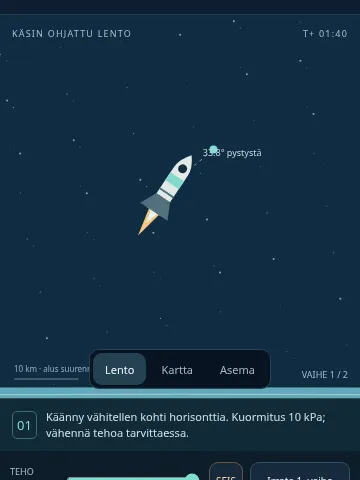
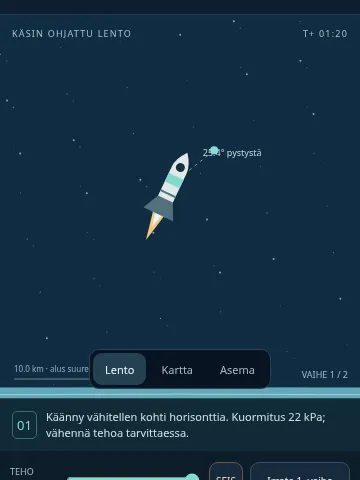
Allow Raketti time acceleration during powered flight and steering

diff --git a/games/raketti/v2/ui.js b/games/raketti/v2/ui.js
@@ -49,7 +49,7 @@ function frame(now) {
   if (paused || !ship || ship.phase !== 'flight') return;
   const dt = lastFrame ? Math.max(0, Math.min(0.2, (now - lastFrame) / 1000)) : 0;
   lastFrame = now;
-  if (warp !== 1 && !canWarp()) warp = 1;
+  limitWarp();
   advanceFlight(dt); saveElapsed += dt;
   if (saveElapsed >= 2) { saveFlight(); saveElapsed = 0; }
   if (now - lastUi >= 80) { updateUi(); lastUi = now; }
@@ -105,6 +105,7 @@ function guidance() {
   return ['02', `Asema ${Math.abs(lead).toFixed(1)}° ${lead >= 0 ? 'edellä' : 'jäljessä'}, ${distance(d.range)}. ${lead >= 0 ? 'Alempi rata saavuttaa asemaa.' : 'Ylempi rata antaa aseman saavuttaa sinut.'} Kohtaaminen: Ohje → 4.`];
 }
 function updateUi() {
+  limitWarp();
   const s = ship || freshFlight(), o = orbit(s), d = approach(s);
   text('alt', distance(o.altitude));
   text('speed', `${Math.round(o.speed).toLocaleString('fi-FI')} m/s`);
@@ -125,12 +126,13 @@ function updateUi() {
   $('throttle').value = s.throttle * 100;
   text('rcs', `Suuttimien polttoaine ${Math.round(s.rcs / RCS_FULL * 100)} %`);
   text('warp', `Aika ×${warp}`);
+  text('warp-note', d.range <= DOCK_REALTIME_RANGE ? 'Porttiin enintään 20 m: ×1' : maxWarp() === 100 ? 'Vapaa lento: ×2/×5/×10/×100' : 'Myös ohjaten ja moottorilla: ×2/×5');
   const live = ship && ship.phase === 'flight' && !paused;
   $('stage').disabled = !live || s.stage !== 0 || o.altitude < 1000;
   text('stage', s.stage === 0 ? 'Irrota 1. vaihe' : '2. vaihe käytössä');
   $('throttle').disabled = !live || s.fuel[s.stage] === 0;
   $('cut').disabled = !live;
-  $('warp').disabled = !live || (warp === 1 && !canWarp());
+  $('warp').disabled = !live || maxWarp() === 1;
   for (const b of document.querySelectorAll('[data-hold]')) {
     const rotational = b.dataset.hold.startsWith('turn:');
     b.disabled = !live || (s.rcs === 0 && (!rotational || s.throttle === 0));
@@ -142,9 +144,10 @@ const HELP = [
   ['Sinä lennät koko matkan', `<p>Tavoite: laukaisu Maasta, vakaa kiertorata ja telakointi 400 km:n korkeudella lentävään asemaan. Yläilmakehään nouseminen ei vielä ole kiertorata.</p><ul><li>TEHO säätää päämoottoria. SEIS katkaisee sen.</li><li>↶ ↷ antavat kääntävää voimaa. Vapautus ei pysäytä kiertoa: paina vastakkaiseen suuntaan.</li><li>↑ ↓ ← → käyttävät pieniä siirtosuuttimia aluksen omissa suunnissa. Ne kuluttavat erillistä polttoainetta.</li><li>Ⅱ pysäyttää ajan. Puhelimen lukitus ja ohjeen avaaminen pysäyttävät myös lennon.</li></ul>`],
   ['01 / Laukaisu', `<p>Pidä aluksi teho täysillä. Nouse lähes pystysuoraan 1–3 km, kallista sitten hitaasti oikealle. Tavoittele noin 20° pystystä 10 km:ssä, 40° 40 km:ssä, 65° 100 km:ssä ja 80° 200 km:ssä. Tämä on lähtöohje, ei automaattinen lentorata.</p><p>Liian nopea kallistus vie raketin tiheään ilmaan. Liian pitkä pystynousu kuluttaa polttoaineen ilman tarvittavaa vaakavauhtia. Kun 1. vaihe tyhjenee, irrota se ja nosta 2. vaiheen teho. Se ei käynnisty itsestään.</p>`],
   ['02 / Rakenna kiertorata', `<p>400 km:n ympyräradalla tarvitaan noin 7 670 m/s vaakavauhtia. Mittarit näyttävät inertiaalisen nopeuden sekä radan alimman ja ylimmän korkeuden.</p><p>Nosta radan ylin noin 400 km:iin ja katkaise moottori. Lähellä radan ylintä kiihdytä vaakasuoraan liikesuuntaan, kunnes myös radan alin on yli 150 km. Negatiivinen alin tarkoittaa, että rata leikkaa maan. Kartta näyttää lentoradan ilman tulevia moottoripolttoja.</p>`],
-  ['02 / Kohtaa liikkuva asema', `<p>Pelkkä sama korkeus ei riitä: aseman on oltava samassa paikassa samaan aikaan. Alempi rata kiertää nopeammin ja saavuttaa edellä olevan aseman. Jos asema on jäljessä, ylemmällä radalla se saavuttaa sinut. Älä yritä lentää suoraan asemaa kohti: suora oikaisu voi viedä ilmakehään.</p><p>Esimerkki 250 km:n ympyräradalta: kun asema on noin 3° edellä, kiihdytä liikesuuntaan noin 43 m/s. Siirtoradan ylin nousee 400 km:iin. Noin 45 minuutin kuluttua, ylimmässä pisteessä, kiihdytä vielä noin 43 m/s tasataksesi radat. Tarkista todellinen kohtaaminen kartalta. Tämä arvio ei korjaa lentoa puolestasi.</p><p>Aika ×10 ja ×100 toimivat vain ilmakehän yläpuolella, moottori ja suuttimet pois, hitaalla kierrolla ja yli 5 km asemasta. Aika palautuu ×1:een lähestyessäsi.</p>`],
+  ['02 / Kohtaa liikkuva asema', `<p>Pelkkä sama korkeus ei riitä: aseman on oltava samassa paikassa samaan aikaan. Alempi rata kiertää nopeammin ja saavuttaa edellä olevan aseman. Jos asema on jäljessä, ylemmällä radalla se saavuttaa sinut. Älä yritä lentää suoraan asemaa kohti: suora oikaisu voi viedä ilmakehään.</p><p>Esimerkki 250 km:n ympyräradalta: kun asema on noin 3° edellä, kiihdytä liikesuuntaan noin 43 m/s. Siirtoradan ylin nousee 400 km:iin. Noin 45 minuutin kuluttua, ylimmässä pisteessä, kiihdytä vielä noin 43 m/s tasataksesi radat. Tarkista todellinen kohtaaminen kartalta. Tämä arvio ei korjaa lentoa puolestasi.</p>`],
   ['03 / Telakoi hitaasti', `<p>Asema-näkymässä oikea on aseman liikesuunta ja ylös poispäin Maasta. Lähesty vasemmalta portin vihreää linjaa pitkin, nokka oikealle. Aluksen suunnat voivat erota näytön suunnista.</p><ul><li>Keltainen viiva näyttää liikkeen asemaan nähden. Jarruta vastakkaisella suuttimella.</li><li>Renkaan etäisyys alle 1,2 m, nopeusero enintään 0,25 m/s.</li><li>Nokan suuntaero enintään 5° ja kiertoero enintään 0,6°/s.</li><li>Portti lukittuu kosketuksesta. Aseman runko ja aurinkopaneelit ovat törmäysesteitä.</li></ul>`],
-  ['Lentomalli ja tallennus', `<p>Fysiikka käyttää metrejä, sekunteja ja kiloja: pallomainen pyörivä Maa, etäisyyden neliössä heikkenevä painovoima, ilmanvastus, muuttuva massa sekä päämoottorin ja siirtosuuttimien liikemäärä. Raketti on kuvitteellinen kaksivaiheinen kantoraketti.</p><p>Rajaukset: yksi ratataso, yksinkertaistettu ilmakehä ja aerodynamiikka; ei Kuuta, nostetta, polttoaineen loiskumista eikä lämpökilpeä. Alukset ovat kuvassa suurennettuja. Tallennus säilyttää lennon; jatkaminen alkaa tauolta. Harjoitukset eivät kirjaa koko lennon saavutuksia.</p>`]
+  ['Lentomalli ja tallennus', `<p>Fysiikka käyttää metrejä, sekunteja ja kiloja: pallomainen pyörivä Maa, etäisyyden neliössä heikkenevä painovoima, ilmanvastus, muuttuva massa sekä päämoottorin ja siirtosuuttimien liikemäärä. Raketti on kuvitteellinen kaksivaiheinen kantoraketti.</p><p>Rajaukset: yksi ratataso, yksinkertaistettu ilmakehä ja aerodynamiikka; ei Kuuta, nostetta, polttoaineen loiskumista eikä lämpökilpeä. Alukset ovat kuvassa suurennettuja. Tallennus säilyttää lennon; jatkaminen alkaa tauolta. Harjoitukset eivät kirjaa koko lennon saavutuksia.</p>`],
+  ['Ajan nopeutus', `<p>Aika-painike kiertää nopeudet ×1, ×2 ja ×5 myös nousussa, moottorin käydessä ja suuttimia käyttäessä. Sama fysiikka ja polttoaineenkulutus jatkuvat; reagoimiseen jää vähemmän aikaa. ×10 ja ×100 toimivat vain ilmakehän yläpuolella, moottori ja suuttimet pois, hitaalla kierrolla ja yli 5 km asemasta. Ohjaus tai näiden ehtojen päättyminen rajoittaa nopeuden ×5:een. Viimeiset 20 m porttiin lennetään aina ×1-ajalla; nopeutus ei käynnisty uudelleen itsestään.</p>`]
 ];
 function openHelp() {
   helpReturn = panelName || 'pause-panel';
@@ -172,12 +175,13 @@ $('continue').onclick = play;
 $('to-menu').onclick = mainMenu; $('result-menu').onclick = mainMenu;
 $('retry').onclick = () => startFlight(lastKind);
 $('throttle').oninput = () => {
-  if (!paused && ship && ship.phase === 'flight') { ship.throttle = +$('throttle').value / 100; warp = 1; updateUi(); }
+  if (!paused && ship && ship.phase === 'flight') { ship.throttle = +$('throttle').value / 100; limitWarp(); updateUi(); }
 };
 $('cut').onclick = () => { if (ship) { ship.throttle = 0; updateUi(); updateSound(); } };
 $('stage').onclick = () => { stageRocket(); updateUi(); draw(); };
 $('warp').onclick = () => {
-  if (warp !== 1 || canWarp()) warp = warp === 1 ? 10 : warp === 10 ? 100 : 1;
+  const rates = [1, 2, 5, 10, 100].filter(rate => canWarp(rate));
+  warp = rates[(rates.indexOf(warp) + 1) % rates.length];
   updateUi();
 };
 for (const b of document.querySelectorAll('[data-view]')) b.onclick = () => { view = b.dataset.view; updateUi(); draw(); };
@@ -189,11 +193,11 @@ function applyPointers() {
 for (const b of document.querySelectorAll('[data-hold]')) {
   b.onpointerdown = e => {
     if (paused || !ship || ship.phase !== 'flight' || b.disabled) return;
-    e.preventDefault(); soundReady(); warp = 1;
+    e.preventDefault(); soundReady();
     const [key, value] = b.dataset.hold.split(':');
     pointers.set(e.pointerId, { key, value: +value, button: b });
     try { b.setPointerCapture(e.pointerId); } catch (_) { /* Window handlers release the finger if capture is unavailable. */ }
-    applyPointers();
+    applyPointers(); limitWarp(); updateUi();
   };
   const release = e => { pointers.delete(e.pointerId); applyPointers(); };
   b.onpointerup = b.onpointercancel = b.onlostpointercapture = release;

diff --git a/games/raketti/v2/physics.js b/games/raketti/v2/physics.js
@@ -85,11 +85,18 @@ function atmosphere(x, y, vx, vy) {
   const ax = vx - SPIN * y, ay = vy + SPIN * x;
   return { rho, ax, ay, speed: Math.hypot(ax, ay), q: 0.5 * rho * (ax * ax + ay * ay) };
 }
-function canWarp() {
-  if (!ship || ship.phase !== 'flight') return false;
-  return Math.hypot(ship.x, ship.y) > EARTH + 150000 && ship.throttle === 0 &&
-    !held.turn && !held.forward && !held.side && Math.abs(ship.omega) < 0.01 && approach().range > 5000;
+// Only wall-clock speed changes; forces, fuel use and integration steps do not.
+const DOCK_REALTIME_RANGE = 20;
+function maxWarp() {
+  if (!ship || ship.phase !== 'flight') return 1;
+  const range = approach().range;
+  if (range <= DOCK_REALTIME_RANGE) return 1;
+  const coasting = Math.hypot(ship.x, ship.y) > EARTH + 150000 && ship.throttle === 0 &&
+    !held.turn && !held.forward && !held.side && Math.abs(ship.omega) < 0.01 && range > 5000;
+  return coasting ? 100 : 5;
 }
+function canWarp(rate = 10) { return maxWarp() >= rate; }
+function limitWarp() { warp = Math.min(warp, maxWarp()); }
 function clearHeld() { held.turn = held.forward = held.side = 0; }
 function endFlight(reason, success = false) {
   ship.phase = success ? 'docked' : 'crashed'; ship.reason = reason;
@@ -128,7 +135,7 @@ function loadFlight() {
 function stageRocket() {
   if (!ship || paused || ship.phase !== 'flight' || ship.stage !== 0) return false;
   if (orbit().altitude < 1000) return false;
-  ship.fuel[0] = 0; ship.stage = 1; ship.throttle = 0; warp = 1;
+  ship.fuel[0] = 0; ship.stage = 1; ship.throttle = 0; limitWarp();
   saveFlight(); return true;
 }
 function acceleration(x, y, vx, vy, fx, fy, m, s) {
@@ -235,13 +242,16 @@ function tick(dt) {
   if (stationContact(oldPoints, vehiclePoints(s, p))) {
     endFlight('Törmäys asemaan. Kohdista nokka porttiin ja hidasta alle 0,25 m/s.');
   }
-  if (before.altitude > 0 && near.range < 5000) warp = 1;
+  limitWarp();
+}
+function flightStepLimit() {
+  return approach().range < 1000 || ship.throttle > 0 || held.turn || held.forward || held.side ? 0.02 : 0.25;
 }
 function step(seconds) {
   if (!ship || paused || ship.phase !== 'flight' || !Number.isFinite(seconds) || seconds <= 0) return;
   let left = seconds;
   while (left > 1e-9 && ship.phase === 'flight') {
-    const limit = approach().range < 1000 || ship.throttle > 0 || held.turn || held.forward || held.side ? 0.02 : 0.25;
+    const limit = flightStepLimit();
     const dt = Math.min(left, limit); tick(dt); left -= dt;
   }
 }
@@ -252,9 +262,9 @@ function advanceFlight(realSeconds) {
   if (!Number.isFinite(realSeconds) || realSeconds <= 0 || paused) return;
   let left = realSeconds;
   while (left > 1e-9 && ship && ship.phase === 'flight') {
-    if (warp !== 1 && !canWarp()) warp = 1;
+    limitWarp();
     const rate = warp;
-    const simulated = Math.min(left * rate, 0.25);
+    const simulated = Math.min(left * rate, flightStepLimit());
     step(simulated);
     left -= simulated / rate;
   }

diff --git a/games/raketti/v2/index.html b/games/raketti/v2/index.html
@@ -29,7 +29,7 @@
       <div class="turn-pad"><span>KÄÄNNÄ · VASTAPAINE PYSÄYTTÄÄ</span><div><button data-hold="turn:-1" aria-label="Käännä vasemmalle">↶</button><button data-hold="turn:1" aria-label="Käännä oikealle">↷</button></div></div>
       <div class="translation"><span>SIIRTOSUUTTIMET · ALUKSEN SUUNNAT</span><div><button data-hold="side:-1" aria-label="Siirrä aluksen vasemmalle">←</button><button data-hold="forward:1" aria-label="Siirrä eteen">↑</button><button data-hold="forward:-1" aria-label="Siirrä taakse">↓</button><button data-hold="side:1" aria-label="Siirrä aluksen oikealle">→</button></div></div>
     </div>
-    <footer><span id="rcs">Suuttimien polttoaine 100 %</span><button id="warp">Aika ×1</button><button id="help">Ohje</button></footer>
+    <footer><span id="footer-info"><span id="rcs">Suuttimien polttoaine 100 %</span><span id="warp-note">Myös ohjaten ja moottorilla: ×2/×5</span></span><button id="warp">Aika ×1</button><button id="help">Ohje</button></footer>
   </section>
 </main>
 <div id="overlay" class="overlay">

diff --git a/games/raketti/v2/style.css b/games/raketti/v2/style.css
@@ -266,6 +266,10 @@ footer span {
   font-size:8px;
   color:#99b0be;
 }
+#footer-info {
+  display:grid;
+  gap:2px;
+}
 footer button {
   min-height:28px;
   font-size:10px;

diff --git a/tests/test_raketti_v2.py b/tests/test_raketti_v2.py
@@ -5,7 +5,7 @@ import pytest
 
 from conftest import ROOT, turn
 
-URL = 'games/raketti/v1/'
+URL = 'games/raketti/v2/'
 
 
 def open_game(site, context):
@@ -245,20 +245,110 @@ def test_no_fuel_means_no_free_thrust_and_staging_is_manual(site, context):
     assert page.errors == []
 
 
-def test_warp_restrictions_and_near_station_cancellation(site, context):
+def test_warp_choices_follow_controls_without_losing_manoeuvre_speed(site, context):
     page = open_game(site, context)
     start(page, 'practice-orbit')
-    assert page.evaluate('canWarp()')
+    for rate in [2, 5, 10, 100, 1]:
+        page.locator('#warp').click()
+        assert page.locator('#warp').inner_text() == f'Aika ×{rate}'
+    for _ in range(4):
+        page.locator('#warp').click()
+    turn = page.locator('[data-hold="turn:1"]')
+    forward = page.locator('[data-hold="forward:1"]')
+    turn.dispatch_event('pointerdown', {'pointerId': 21})
+    forward.dispatch_event('pointerdown', {'pointerId': 22})
+    assert page.evaluate('warp === 5 && held.turn === 1 && held.forward === 1 && !canWarp(10)')
+    # A second press and cancellation must retain both time and the other thumb.
+    turn.dispatch_event('pointercancel', {'pointerId': 21})
+    assert page.evaluate('warp === 5 && held.turn === 0 && held.forward === 1')
+    forward.dispatch_event('pointerup', {'pointerId': 22})
+    page.locator('#throttle').evaluate("el => { el.value = '30'; el.dispatchEvent(new Event('input', {bubbles:true})); }")
+    assert page.evaluate('warp === 5 && ship.throttle === .3 && maxWarp() === 5')
+    for rate in [1, 2, 5]:
+        page.locator('#warp').click()
+        assert page.evaluate('warp') == rate
+    # Main-engine cutoff and staging must not silently speed the simulation up.
+    page.locator('#cut').click()
+    assert page.evaluate('warp') == 5
+    assert page.errors == []
+
+
+@pytest.mark.parametrize('rate', [2, 5])
+@pytest.mark.parametrize('kind', ['launch', 'orbit'])
+def test_accelerated_power_and_steering_match_normal_physics(site, context, rate, kind):
+    page = open_game(site, context)
+    start(page, 'launch' if kind == 'launch' else 'practice-orbit')
+    result = page.evaluate("""({rate,kind}) => {
+      ship.throttle=kind==='launch'?1:.6; held.turn=1; held.forward=1; held.side=-1;
+      const initial=JSON.stringify(ship), startT=ship.t;
+      warp=rate; advanceFlight(.4); const fast=structuredClone(ship);
+      ship=JSON.parse(initial);warp=1;step(.4*rate);const normal=structuredClone(ship);
+      return {fast,normal,elapsed:fast.t-startT};
+    }""", {'rate': rate, 'kind': kind})
+    for key in ('x', 'y', 'vx', 'vy', 't', 'omega', 'rcs'):
+        assert result['fast'][key] == pytest.approx(result['normal'][key], abs=1e-5)
+    assert result['fast']['fuel'] == pytest.approx(result['normal']['fuel'], abs=1e-5)
+    assert result['elapsed'] == pytest.approx(.4 * rate)
+    assert result['fast']['phase'] == result['normal']['phase'] == 'flight'
+    assert result['fast']['fuel'][0 if kind == 'launch' else 1] < (295000 if kind == 'launch' else 18000)
+    assert page.errors == []
+
+
+@pytest.mark.parametrize('order', ['speed-first', 'thrust-first'])
+def test_launch_throttle_and_staging_keep_selected_speed(site, context, order):
+    page = open_game(site, context)
+    start(page)
+    if order == 'thrust-first':
+        page.locator('#throttle').evaluate("el => { el.value = '70'; el.dispatchEvent(new Event('input', {bubbles:true})); }")
     page.locator('#warp').click()
-    assert page.evaluate('warp') == 10
-    page.locator('[data-hold="forward:1"]').dispatch_event('pointerdown', {'pointerId': 21})
-    assert page.evaluate('warp===1 && !canWarp()')
-    page.locator('[data-hold="forward:1"]').dispatch_event('pointerup', {'pointerId': 21})
-    assert page.evaluate('canWarp()')
+    page.locator('#warp').click()
+    if order == 'speed-first':
+        page.locator('#throttle').evaluate("el => { el.value = '70'; el.dispatchEvent(new Event('input', {bubbles:true})); }")
+    assert page.evaluate('warp === 5 && ship.throttle === .7')
+    page.evaluate('ship.y=EARTH+2000;updateUi()')
+    page.locator('#stage').click()
+    assert page.evaluate('warp === 5 && ship.stage === 1 && ship.throttle === 0')
+    page.locator('#throttle').evaluate("el => { el.value = '50'; el.dispatchEvent(new Event('input', {bubbles:true})); }")
+    assert page.evaluate('warp === 5 && ship.throttle === .5')
+    page.locator('#pause').click()
+    page.reload()
+    page.locator('#resume').click()
+    assert page.evaluate('paused && warp === 1 && ship.stage === 1 && ship.throttle === .5')
+    assert page.errors == []
+
+
+@pytest.mark.parametrize('input_kind', ['throttle', 'turn', 'forward', 'side'])
+def test_high_coasting_speed_is_capped_when_a_control_is_used(site, context, input_kind):
+    page = open_game(site, context)
+    start(page, 'practice-orbit')
+    page.evaluate('warp=100;updateUi()')
+    if input_kind == 'throttle':
+        page.locator('#throttle').evaluate("el => { el.value = '10'; el.dispatchEvent(new Event('input', {bubbles:true})); }")
+    else:
+        page.locator(f'[data-hold="{input_kind}:1"]').dispatch_event('pointerdown', {'pointerId': 31})
+    assert page.evaluate('warp === 5 && maxWarp() === 5')
+    assert page.locator('#warp').inner_text() == 'Aika ×5'
+    assert page.errors == []
+
+
+def test_docking_limit_is_visible_and_cancels_within_the_frame(site, context):
+    page = open_game(site, context)
+    start(page, 'practice-dock')
+    page.locator('#warp').click()
+    page.locator('#warp').click()
+    assert page.evaluate('warp') == 5
     result = page.evaluate("""() => {
-      ship=freshFlight('dock');warp=100;step(.1);return {warp,can:canWarp()};
+      const p=station();ship.x=p.px-30;ship.y=p.py;ship.vx=p.pvx+5;
+      advanceFlight(.2);updateUi();return {t:ship.t,warp,range:approach().range,phase:ship.phase};
     }""")
-    assert result == {'warp': 1, 'can': False}
+    assert result['warp'] == 1 and .4 < result['t'] < .65, result
+    assert 18 < result['range'] <= 20 and result['phase'] == 'flight', result
+    assert page.locator('#warp').is_disabled()
+    assert page.locator('#warp-note').inner_text() == 'Porttiin enintään 20 m: ×1'
+    # Departing the safety zone never turns acceleration back on without a tap.
+    page.evaluate('ship.x-=50;advanceFlight(.1);updateUi()')
+    assert page.evaluate('warp') == 1
+    assert page.locator('#warp').is_enabled()
     assert page.errors == []
 
 
@@ -270,11 +360,11 @@ def test_phone_screens_help_and_controls_fit(site, browser, width, height):
         box = page.locator(selector).bounding_box()
         assert box and box['y'] >= 0 and box['y'] + box['height'] <= height, (selector, box)
     page.locator('#menu-help').tap()
-    for i in range(6):
+    for i in range(7):
         box = page.locator('#help-panel').bounding_box()
         assert box and box['y'] >= 0 and box['y'] + box['height'] <= height, (i, box)
         assert page.locator('#help-close').is_visible()
-        if i < 5:
+        if i < 6:
             page.locator('#help-next').tap()
     page.locator('#help-close').tap()
     start(page, 'practice-dock')
@@ -319,8 +409,8 @@ def test_warp_cancellation_does_not_consume_rest_of_accelerated_frame(site, cont
       ship.x=p.px-6000;ship.vx=p.pvx+1000;warp=100;
       advanceFlight(.2);return {t:ship.t,warp,phase:ship.phase,range:approach().range};
     }""")
-    assert result['warp'] == 1 and result['t'] < 2, result
-    assert result['range'] > 4000 and result['phase'] == 'flight'
+    assert result['warp'] == 5 and result['t'] < 3, result
+    assert result['range'] > 3000 and result['phase'] == 'flight'
     assert page.errors == []
 
 

diff --git a/docs/raketti-flight-model.md b/docs/raketti-flight-model.md
@@ -1,6 +1,6 @@
 # Raketti flight model
 
-Raketti v1 follows the approved manual, two-dimensional launch → orbit → docking mission. The player chose maximum realism, a 2D view, and no autopilot. Earth, a coplanar station at 400 km, two stages, coasting time acceleration and resumable flight were assumptions in the approved scope. The practice starts are an implementation assumption: they make the three stages learnable without repeatedly spending eight minutes on launch, and never earn full-flight achievements.
+Raketti v2 follows the approved manual, two-dimensional launch → orbit → docking mission. The player chose maximum realism, a 2D view, and no autopilot. Earth, a coplanar station at 400 km, two stages, coasting time acceleration and resumable flight were assumptions in the approved scope. The practice starts are an implementation assumption: they make the three stages learnable without repeatedly spending eight minutes on launch, and never earn full-flight achievements.
 
 The mission starts on a rotating Earth. The station starts at −0.20336 radians from the launch meridian, a launch window that brings the handbook ascent close to the station near its next apoapsis; a different manual ascent still needs the player to correct phasing. Nothing steers, stages, fires an engine or matches station velocity for the player. Instruments calculate the current orbit and explain the next task; the test-only scripted pilot is never shipped with the game.
 
@@ -18,10 +18,16 @@ The fictional launch vehicle starts at 500 tonnes. Stage 1 carries 295 tonnes pr
 
 ## Numerical and physical limits
 
-Velocity Verlet uses at most 0.25 s coasting steps, reduced to 0.02 s under thrust, during turning or within 1 km of the station. Time acceleration still runs every substep. It is available only above 150 km, beyond 5 km from the station, with engines and thrusters off and angular speed below 0.01 rad/s. Near a station it returns to real time.
+Velocity Verlet uses at most 0.25 s coasting steps, reduced to 0.02 s under thrust, during turning or within 1 km of the station. Time acceleration still runs every substep. The player can choose ×1, ×2 and ×5 during launch, thrust and steering. ×10 and ×100 remain available only above 150 km, beyond 5 km from the station, with engines and thrusters off and angular speed below 0.01 rad/s. Outside those coasting conditions a higher selected rate drops to ×5, not back up automatically. Within 20 m of the port it returns to real time; this cutoff is an implementation assumption for final contact, stated on screen. Pausing and resuming use ×1. Existing v1 saves and achievements use the same keys and shape unchanged.
 
 This is a planar, spherical-Earth two-body simulation, not a validated aerospace training simulator. It omits the Moon, non-spherical gravity, lift, propellant slosh and real engine operating limits. The atmosphere is a scale-height exponential with an altitude cutoff. Passive aerodynamic stability, dynamic-pressure failure and a heat proxy are deliberately simplified. Graphics enlarge the craft; the instruments and collision model use metres. The craft has no re-entry heat shield.
 
 ## Flight verification
 
-`tests/test_raketti_v1.py` contains a test-only pilot which operates the same DOM controls as a player. Its reference launch starts nearly vertical, aims about 20° from vertical at 10 km, 40° at 40 km, 65° at 100 km and 80° at 200 km, stages manually, and performs orbital insertion. This is a feasibility check rather than an autopilot available to the player. The full non-practice mission test continues that launch through a coast, main-engine rendezvous and RCS docking in both orientations, using only the manual DOM controls and physics steps. Separate checks exercise repeat practice docking, high-speed and tail-first contacts, an orbit period, fuel consumption, immediate warp cancellation, saves, offline play and touch layouts.
+`tests/test_raketti_v2.py` contains a test-only pilot which operates the same DOM controls as a player. Its reference launch starts nearly vertical, aims about 20° from vertical at 10 km, 40° at 40 km, 65° at 100 km and 80° at 200 km, stages manually, and performs orbital insertion. This is a feasibility check rather than an autopilot available to the player. The full non-practice mission test continues that launch through a coast, main-engine rendezvous and RCS docking in both orientations, using only the manual DOM controls and physics steps. Separate checks exercise repeat practice docking, high-speed and tail-first contacts, an orbit period, fuel consumption, immediate warp cancellation, saves, offline play and touch layouts.
+
+## Faster flight (v2)
+
+Chosen by the owner: acceleration also while not coasting; selectable ×1/×2/×5 under thrust and steering; ×10/×100 for coasting; manual controls, unchanged physics and existing saves; real time near docking contact, with the limit visible.
+
+Assumed (change if the build shows better; say so in the pull request): the final-contact cutoff is 20 m nose-to-port distance; disallowed ×10/×100 is capped at ×5; manual staging preserves ×2/×5. The time button cycles through the currently permitted rates.

diff --git a/docs/diagrams/raketti.md b/docs/diagrams/raketti.md
@@ -27,14 +27,18 @@ flowchart TD
     N --> O[Tallenna lento puhelimeen, jos tallennus sallitaan]
     O --> S
     J --> O
-    E --> P{Moottori ja suuttimet pois, yli 150 km ja yli 5 km asemasta, hidas kierto?}
-    P -- Kyllä --> Q[Valinnainen ajan nopeutus, samat fysiikan välivaiheet]
-    P -- Ei --> R[Aika normaaliksi]
-    Q --> F
-    R --> F
+    E --> P{Porttiin enintään 20 m?}
+    P -- Kyllä --> R[Aika normaaliksi, ei itsestään nopeutusta]
+    P -- Ei --> U{Moottori ja suuttimet pois, yli 150 km ja yli 5 km asemasta, hidas kierto?}
+    U -- Kyllä --> Q[Valitse ×1, ×2, ×5, ×10 tai ×100]
+    U -- Ei --> V[Valitse ×1, ×2 tai ×5 myös ohjatessa]
+    Q --> W[Samat fysiikan välivaiheet, rajoita valittua nopeutta heti]
+    V --> W
+    R --> W
+    W --> F
     class A,B,C,D,S blue
     class E,N violet
-    class F,J,P,Q,R teal
+    class F,J,P,Q,R,U,V,W teal
     class G,M,X rose
     class H,I,K,L green
     class O amber
@@ -51,7 +55,7 @@ flowchart TD
 
 ## Boxes
 
-- **Valitse lento tai harjoitus**: `games/raketti/v1/ui.js` tarjoaa täyden laukaisun sekä erilliset kiertorata- ja telakointiharjoitukset. `physics.js:freshFlight()` antaa harjoitukselle valmiin lähtötilan, ei ohjausta lennon aikana.
+- **Valitse lento tai harjoitus**: `games/raketti/v2/ui.js` tarjoaa täyden laukaisun sekä erilliset kiertorata- ja telakointiharjoitukset. `physics.js:freshFlight()` antaa harjoitukselle valmiin lähtötilan, ei ohjausta lennon aikana.
 - **Keskeneräinen lento?**: `ui.js:activeSaved()` ja `requestFlight()` suojaavat olemassa olevan lennon. Uusi lento vaatii vahvistuksen ennen tallennuksen korvaamista.
 - **Vahvista uuden lennon aloitus**: `ui.js` näyttää `replace-panel`-ruudun. Peruuttaminen säilyttää aiemman lennon.
 - **Laukaisu tai harjoituksen lähtötila**: `ui.js:startFlight()` käynnistää laukaisun täydellä teholla tai harjoituksen päämoottori sammutettuna.
@@ -68,6 +72,9 @@ flowchart TD
 - **Lento keskeytyy ja syy näytetään**: `physics.js:endFlight()` katkaisee moottorin, vapauttaa ohjauksen ja tallentaa. `ui.js:showResult()` kertoo syyn ja tarjoaa uuden yrityksen.
 - **Tauko, ohje tai puhelin piiloon: vapauta suuttimet**: `ui.js:showPanel()` ja `suspendFlight()` pysäyttävät ajan, vapauttavat kaikki painetut suuttimet ja hiljentävät moottorin. Myös `pointercancel` ja kadonnut osoittimen kaappaus vapauttavat painalluksen.
 - **Tallenna lento puhelimeen, jos tallennus sallitaan**: `physics.js:saveFlight()` säilyttää ajan, paikan, nopeuden, asennon, kierron, polttoaineet ja vaiheen avaimella `ai-pelit:raketti:lento`. `ui.js:frame()` tallentaa kahden sekunnin välein. Tallennuksen estyminen ei pysäytä peliä. Saavutukset käyttävät erillistä `ai-pelit:raketti:saavutukset`-avainta.
-- **Moottori ja suuttimet pois, yli 150 km ja yli 5 km asemasta, hidas kierto?**: `physics.js:canWarp()` vaatii myös käynnissä olevan lennon ja alle 0,01 rad/s kierron. `ui.js` palauttaa ajan normaaliksi ohjausta käytettäessä.
-- **Valinnainen ajan nopeutus, samat fysiikan välivaiheet**: `ui.js:frame()` käyttää `physics.js:advanceFlight()`-funktiota: pelaajan valitsemaa ×10 tai ×100 aikaa käytetään vain kun `canWarp()` sallii sen, ja peruutus vaikuttaa saman ruudun jäljellä olevaan aikaan heti. Fysiikan askelia ei hypätä yli.
-- **Aika normaaliksi**: `ui.js:frame()` ja `physics.js:tick()` palauttavat ×1-ajan, kun ehdot eivät enää täyty tai asema on lähellä.
+- **Porttiin enintään 20 m?**: `physics.js:maxWarp()` laskee nokan etäisyyden porttiin `approach()`-funktiolla. Enintään 20 metrin etäisyydellä suurin nopeus on ×1. Raja on toteutusoletus turvalliseen loppulähestymiseen.
+- **Moottori ja suuttimet pois, yli 150 km ja yli 5 km asemasta, hidas kierto?**: `physics.js:maxWarp()` sallii ×100 asti vain käynnissä olevassa vapaassa lennossa, kun kaikki ehdot ja alle 0,01 rad/s kierto täyttyvät. Muulloin yli 20 m portista suurin nopeus on ×5 myös nousussa ja ohjatessa.
+- **Valitse ×1, ×2, ×5, ×10 tai ×100**: `ui.js` kierrättää ajan painikkeella sallitut nopeudet. Moottorin tai suuttimien käyttö rajoittaa ×10/×100-ajan ×5:een; ×2 ja ×5 säilyvät. Käsky ei ohjaa alusta pelaajan puolesta.
+- **Valitse ×1, ×2 tai ×5 myös ohjatessa**: `ui.js` näyttää samassa painikkeessa ohjatun lennon kolme nopeutta. Vaiheen irrotus katkaisee tehon mutta säilyttää ×2/×5-ajan. Tauko, uusi lento ja tallennuksen jatkaminen alkavat ×1-ajalla.
+- **Samat fysiikan välivaiheet, rajoita valittua nopeutta heti**: `physics.js:advanceFlight()` käyttää joka välivaiheella `limitWarp()`-rajaa ja samoja `flightStepLimit()`-askelia kuin normaaliaikainen `step()`. Raja vaikuttaa saman ruudun jäljellä olevaan aikaan; voimat, polttoaine ja törmäykset lasketaan edelleen jokaisella askeleella.
+- **Aika normaaliksi, ei itsestään nopeutusta**: `physics.js:limitWarp()` vain laskee valittua nopeutta. `ui.js` kertoo 20 m:n rajan ajan painikkeen vieressä ja poistaa nopeutuspainikkeen käytöstä rajan sisällä. Loittoneminen ei nosta nopeutta itsestään.
